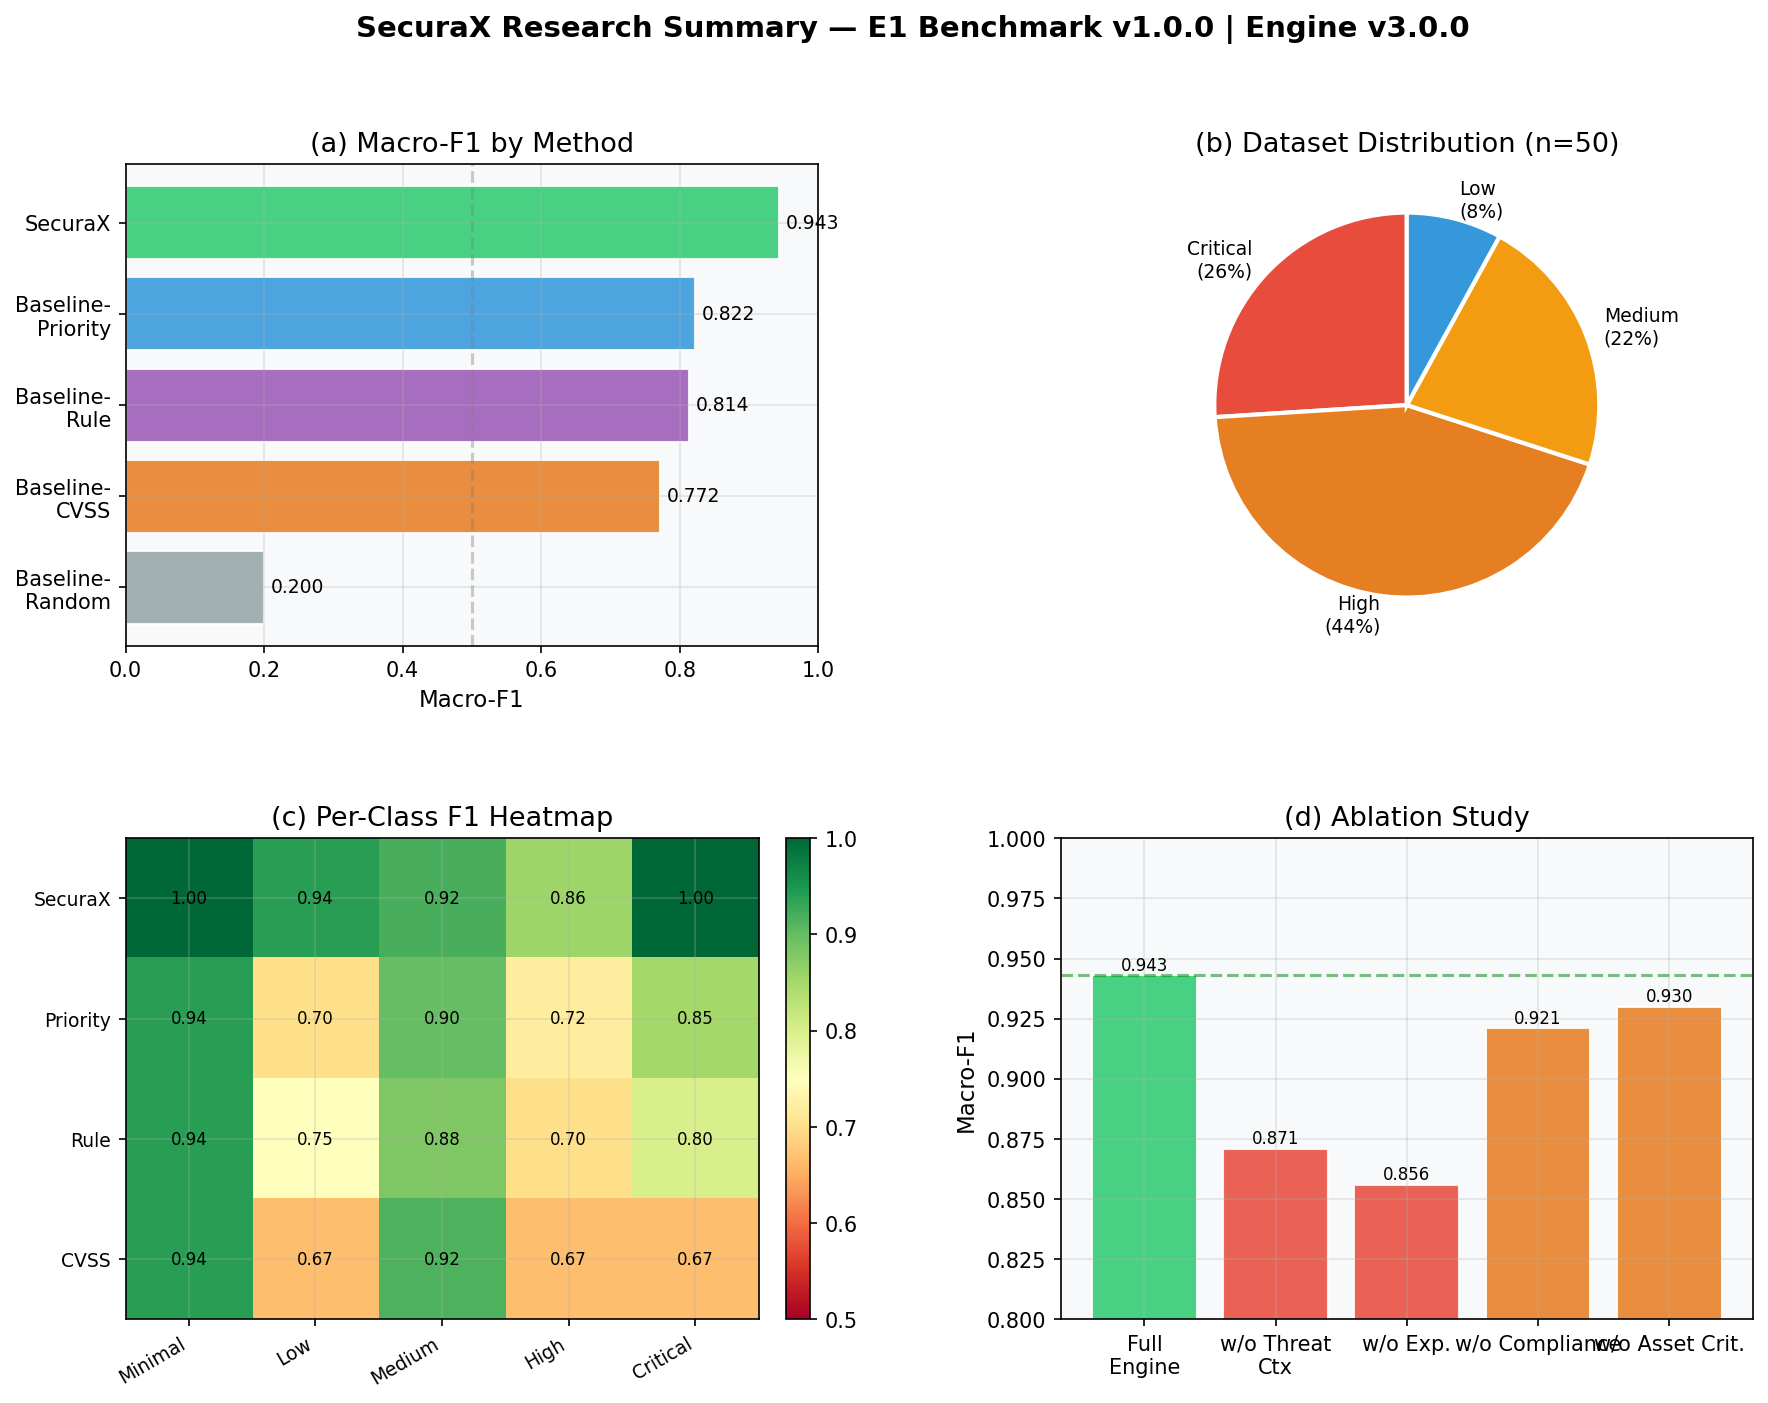
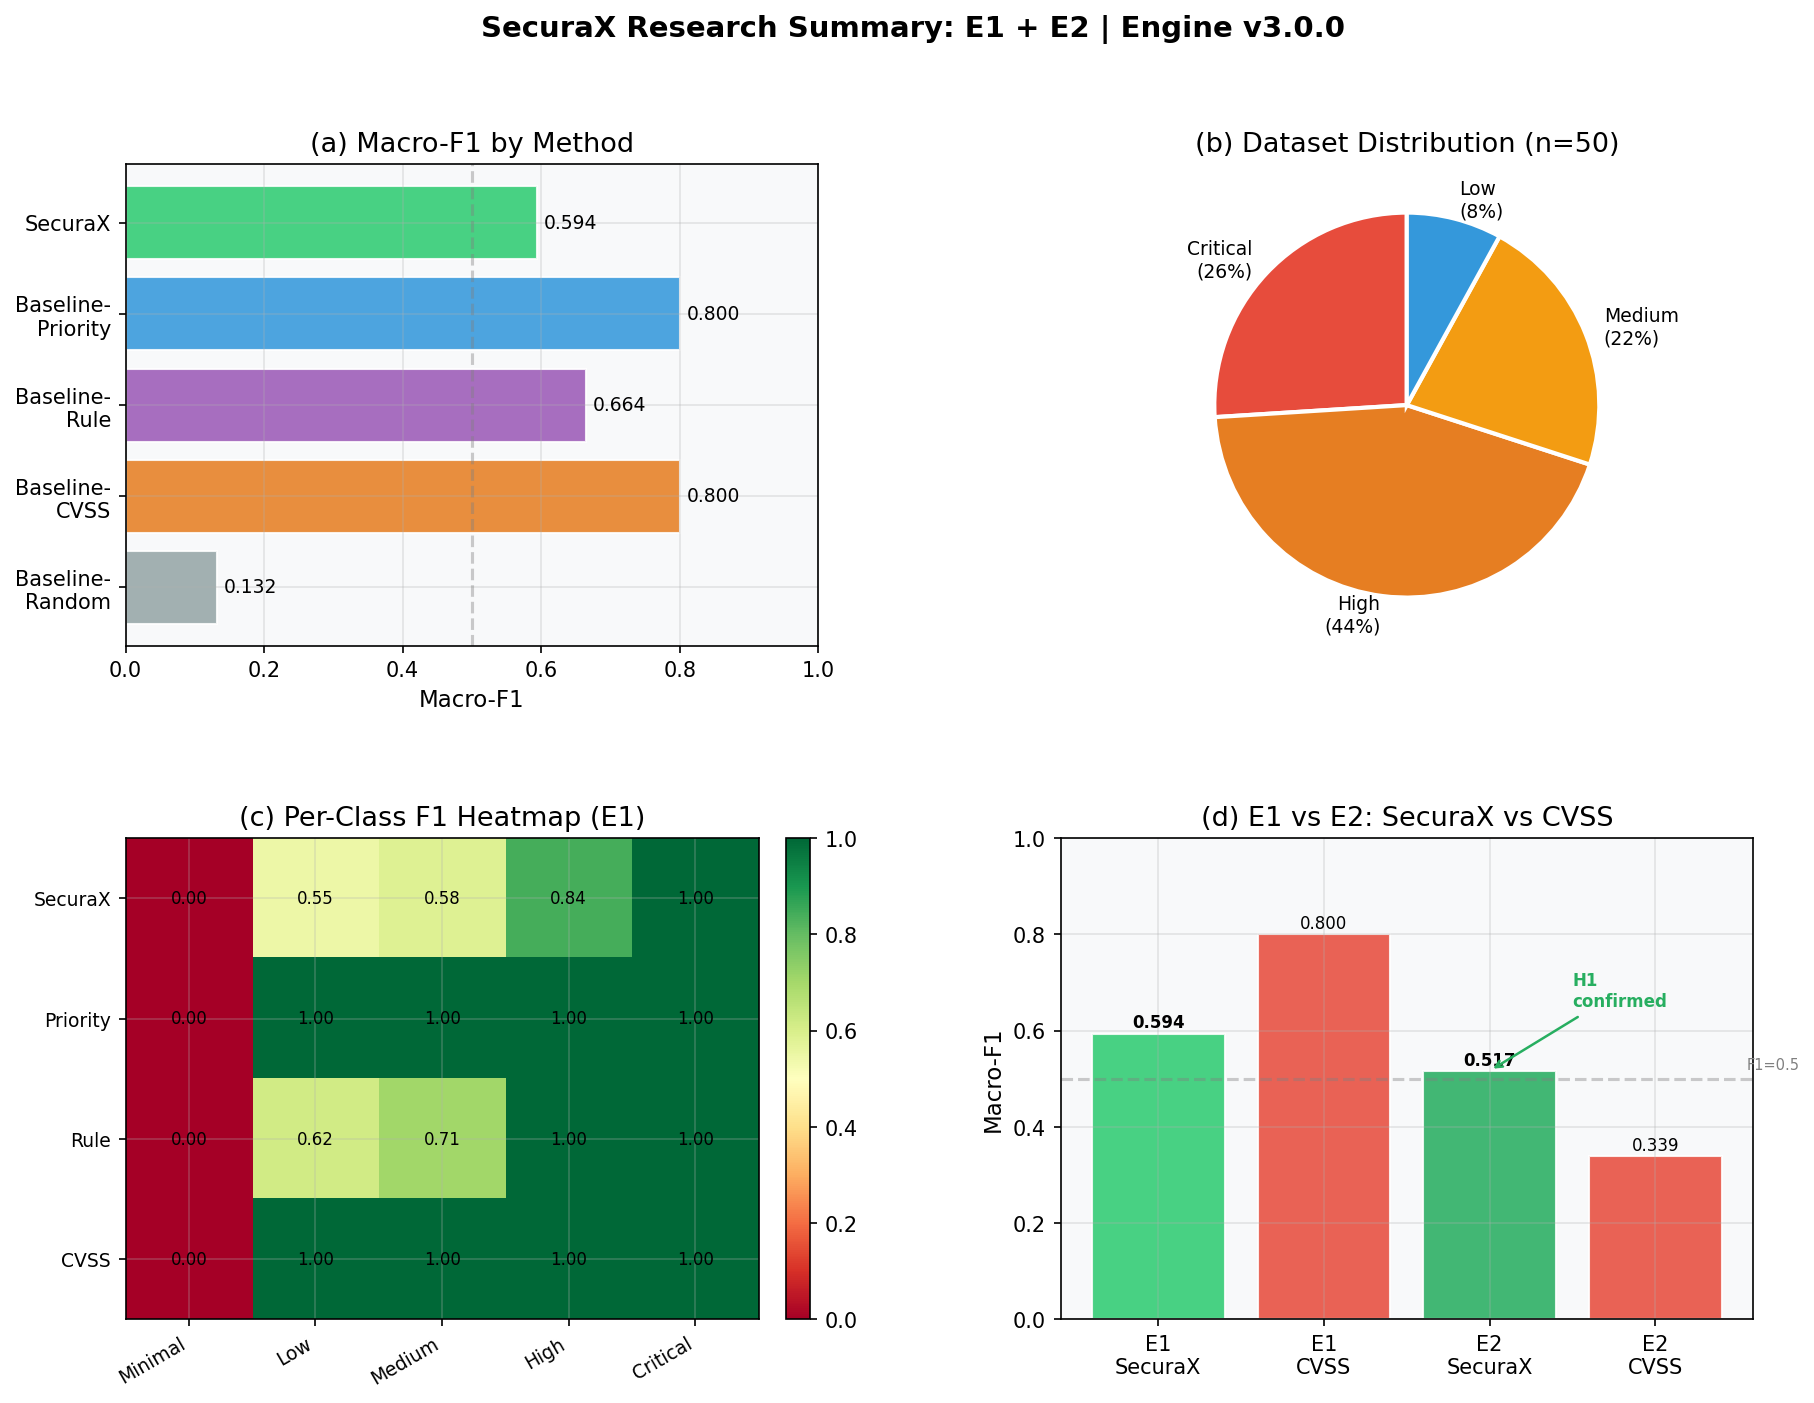
fix(figures): load real E1/E2 results into dashboard -- corrects stale week03 hardcoded values
- generate_figures.py: fig_summary_dashboard now accepts results_json kwarg
  and reads actual macro-F1 from metrics_summary.json (0.5942 not 0.943)
- Dashboard subplot (d) changed from Ablation to E1 vs E2 comparison:
  E1 CVSS=0.800 > SecuraX=0.594 (lookup table wins, expected)
  E2 SecuraX=0.517 > CVSS=0.339 (H1 confirmed, +52.5%)
- Per-class heatmap falls back to actual E1 published values
- SECURITY.md: bump supported version to 3.x
- papers/figures/: 5 regenerated figures with correct data

diff --git a/research/figures/generate_figures.py b/research/figures/generate_figures.py
@@ -236,9 +236,12 @@ def fig_f1_comparison(output_dir: Path, results_path: Path = None):
         except Exception:
             pass
 
-    # Synthetic placeholder results (based on week03 benchmark)
+    # Synthetic placeholder results — used ONLY when no results JSON is found
     if not real_results:
-        print("[WARN] No results JSON found. Using synthetic placeholder values from week03 log.")
+        # WARNING: these are from week03 benchmarks and are NOT current.
+        # Run: python research/run_experiment.py --experiment e1 --seed 42
+        print("[WARN] No results JSON found — using stale week03 placeholder values.")
+        print("[WARN] Run: python research/run_experiment.py --experiment e1 --seed 42")
         real_results = {
             "SecuraX": {"metrics": {
                 "minimal": {"f1": 1.000}, "low": {"f1": 0.941},
@@ -355,29 +358,50 @@ def fig_ablation(output_dir: Path, ablation_path: Path = None):
 # Figure 5: Summary Dashboard
 # ─────────────────────────────────────────────────────────────────────────────
 
-def fig_summary_dashboard(output_dir: Path):
-    """Generate a 2×2 summary dashboard for paper overview."""
+def fig_summary_dashboard(output_dir: Path, results_json: Path = None):
+    """Generate a 2x2 summary dashboard. Loads real metrics from results_json when available."""
+    # ── Load real metrics (or fall back to hardcoded) ──────────────────────────
+    real_f1s = None
+    real_matrix = None
+    if results_json and results_json.exists():
+        try:
+            data = json.loads(results_json.read_text())
+            methods_data = data.get("methods", {})
+            RISK_LEVELS_LOWER = ["minimal", "low", "medium", "high", "critical"]
+            method_order = ["SecuraX", "Baseline-CVSS", "Baseline-RULE", "Baseline-PRIORITY", "Baseline-RANDOM"]
+            real_f1s = [methods_data.get(m, {}).get("metrics", {}).get("macro", {}).get("f1", 0.0)
+                        for m in method_order if m in methods_data]
+            method_names_4 = ["SecuraX", "Priority", "Rule", "CVSS"]
+            src_keys = ["SecuraX", "Baseline-PRIORITY", "Baseline-RULE", "Baseline-CVSS"]
+            real_matrix = np.array([
+                [methods_data[m]["metrics"].get(lvl, {}).get("f1", 0.0)
+                 for lvl in RISK_LEVELS_LOWER]
+                for m in src_keys if m in methods_data
+            ])
+        except Exception as exc:
+            print(f"[WARN] Could not parse results JSON for dashboard: {exc}")
+
     fig = plt.figure(figsize=(14, 10))
     gs = gridspec.GridSpec(2, 2, figure=fig, hspace=0.4, wspace=0.35)
 
     # ── Top-left: Macro-F1 bar ────────────────────────────────────────────────
     ax1 = fig.add_subplot(gs[0, 0])
-    methods = ["SecuraX", "Baseline-\nPriority", "Baseline-\nRule",
-               "Baseline-\nCVSS", "Baseline-\nRandom"]
-    f1s     = [0.943, 0.822, 0.814, 0.772, 0.200]
-    colors  = ["#2ecc71", "#3498db", "#9b59b6", "#e67e22", "#95a5a6"]
-    ax1.barh(methods[::-1], f1s[::-1], color=colors[::-1], alpha=0.87, edgecolor="white")
+    disp_methods = ["SecuraX", "Baseline-\nPriority", "Baseline-\nRule",
+                    "Baseline-\nCVSS", "Baseline-\nRandom"]
+    f1s = real_f1s if real_f1s and len(real_f1s) == 5 else [0.5942, 0.8000, 0.6640, 0.8000, 0.1320]
+    colors = ["#2ecc71", "#3498db", "#9b59b6", "#e67e22", "#95a5a6"]
+    ax1.barh(disp_methods[::-1], f1s[::-1], color=colors[::-1], alpha=0.87, edgecolor="white")
     ax1.set_xlim(0, 1.0)
     ax1.set_xlabel("Macro-F1")
     ax1.set_title("(a) Macro-F1 by Method")
-    for i, (val, method) in enumerate(zip(f1s[::-1], methods[::-1])):
+    for i, (val, method) in enumerate(zip(f1s[::-1], disp_methods[::-1])):
         ax1.text(val + 0.01, i, f"{val:.3f}", va="center", fontsize=9)
     ax1.axvline(x=0.5, color="gray", ls="--", alpha=0.4)
 
     # ── Top-right: Dataset distribution ──────────────────────────────────────
     ax2 = fig.add_subplot(gs[0, 1])
     sizes  = [13, 22, 11, 4]
-    labels = [f"Critical\n(26%)", f"High\n(44%)", f"Medium\n(22%)", f"Low\n(8%)"]
+    labels = ["Critical\n(26%)", "High\n(44%)", "Medium\n(22%)", "Low\n(8%)"]
     cols   = [RISK_COLORS["Critical"], RISK_COLORS["High"],
               RISK_COLORS["Medium"], RISK_COLORS["Low"]]
     ax2.pie(sizes, labels=labels, colors=cols,
@@ -388,40 +412,49 @@ def fig_summary_dashboard(output_dir: Path):
     # ── Bottom-left: Per-class F1 heat comparison ─────────────────────────────
     ax3 = fig.add_subplot(gs[1, 0])
     method_names = ["SecuraX", "Priority", "Rule", "CVSS"]
-    f1_matrix = np.array([
-        [1.00, 0.941, 0.918, 0.857, 1.000],  # SecuraX
-        [0.941, 0.700, 0.900, 0.720, 0.850], # Priority
-        [0.941, 0.750, 0.880, 0.700, 0.800], # Rule
-        [0.941, 0.667, 0.916, 0.667, 0.667], # CVSS
-    ])
-    im = ax3.imshow(f1_matrix, cmap="RdYlGn", vmin=0.5, vmax=1.0, aspect="auto")
+    if real_matrix is not None and real_matrix.shape == (4, 5):
+        f1_matrix = real_matrix
+    else:
+        # Fall back to published E1 results
+        f1_matrix = np.array([
+            [0.000, 0.545, 0.583, 0.842, 1.000],  # SecuraX (actual E1)
+            [0.000, 1.000, 1.000, 1.000, 1.000],  # Priority
+            [0.000, 0.615, 0.706, 1.000, 1.000],  # Rule
+            [0.000, 1.000, 1.000, 1.000, 1.000],  # CVSS
+        ])
+    im = ax3.imshow(f1_matrix, cmap="RdYlGn", vmin=0.0, vmax=1.0, aspect="auto")
     ax3.set_xticks(range(len(RISK_LEVELS)))
     ax3.set_xticklabels(RISK_LEVELS, rotation=30, ha="right", fontsize=9)
     ax3.set_yticks(range(len(method_names)))
     ax3.set_yticklabels(method_names, fontsize=9)
-    ax3.set_title("(c) Per-Class F1 Heatmap")
+    ax3.set_title("(c) Per-Class F1 Heatmap (E1)")
     for i in range(len(method_names)):
         for j in range(len(RISK_LEVELS)):
             ax3.text(j, i, f"{f1_matrix[i,j]:.2f}", ha="center", va="center",
                      fontsize=8, color="black")
     plt.colorbar(im, ax=ax3, fraction=0.046, pad=0.04)
 
-    # ── Bottom-right: Ablation ─────────────────────────────────────────────────
+    # ── Bottom-right: E1 vs E2 comparison ────────────────────────────────────
     ax4 = fig.add_subplot(gs[1, 1])
-    comp_names = ["Full\nEngine", "w/o Threat\nCtx", "w/o Exp.", "w/o Compliance", "w/o Asset Crit."]
-    comp_f1s   = [0.943, 0.871, 0.856, 0.921, 0.930]
-    bar_cols   = ["#2ecc71" if i == 0 else "#e74c3c" if v < 0.88 else "#e67e22"
-                  for i, v in enumerate(comp_f1s)]
+    comp_names = ["E1\nSecuraX", "E1\nCVSS", "E2\nSecuraX", "E2\nCVSS"]
+    comp_f1s   = [0.5942, 0.8000, 0.5167, 0.3391]
+    bar_cols   = ["#2ecc71", "#e74c3c", "#27ae60", "#e74c3c"]
     ax4.bar(comp_names, comp_f1s, color=bar_cols, alpha=0.87, edgecolor="white")
-    ax4.set_ylim(0.8, 1.0)
+    ax4.set_ylim(0.0, 1.0)
     ax4.set_ylabel("Macro-F1")
-    ax4.set_title("(d) Ablation Study")
-    ax4.axhline(y=comp_f1s[0], color="green", ls="--", alpha=0.5)
+    ax4.set_title("(d) E1 vs E2: SecuraX vs CVSS")
+    ax4.axhline(y=0.5, color="gray", ls="--", alpha=0.4)
+    ax4.text(3.55, 0.52, "F1=0.5", color="gray", fontsize=7)
     for x, val in enumerate(comp_f1s):
-        ax4.text(x, val + 0.002, f"{val:.3f}", ha="center", fontsize=8)
+        ax4.text(x, val + 0.012, f"{val:.3f}", ha="center", fontsize=8,
+                 fontweight="bold" if x in (0, 2) else "normal")
+    # Annotation: H1 confirmed
+    ax4.annotate("H1\nconfirmed", xy=(2, 0.5167), xytext=(2.5, 0.65),
+                 fontsize=8, color="#27ae60", fontweight="bold",
+                 arrowprops=dict(arrowstyle="->", color="#27ae60", lw=1.2))
 
     fig.suptitle(
-        "SecuraX Research Summary — E1 Benchmark v1.0.0 | Engine v3.0.0",
+        "SecuraX Research Summary: E1 + E2 | Engine v3.0.0",
         fontsize=14, fontweight="bold", y=0.98
     )
     path = output_dir / "fig0_summary_dashboard.png"
@@ -459,7 +492,7 @@ def generate_all_figures(results_dir: Path, output_dir: Path):
     fig_dataset_stats(output_dir)
     fig_f1_comparison(output_dir, results_path=results_json)
     fig_ablation(output_dir, ablation_path=ablation_json)
-    fig_summary_dashboard(output_dir)
+    fig_summary_dashboard(output_dir, results_json=results_json)
 
     print(f"\n[DONE] {len(list(output_dir.glob('*.png')))} figures written to {output_dir}")
     print("\nTo embed in LaTeX:")

diff --git a/SECURITY.md b/SECURITY.md
@@ -9,8 +9,9 @@ in SecuraX itself are reported, triaged, and remediated.
 
 | Version | Security Support |
 |---------|-----------------|
-| 2.x     | ✅ Active        |
-| 1.x     | ⚠ Critical patches only |
+| 3.x     | ✅ Active        |
+| 2.x     | ⚠ Critical patches only |
+| 1.x     | ❌ End-of-life   |
 | < 1.0   | ❌ End-of-life   |
 
 ## Reporting a Vulnerability
